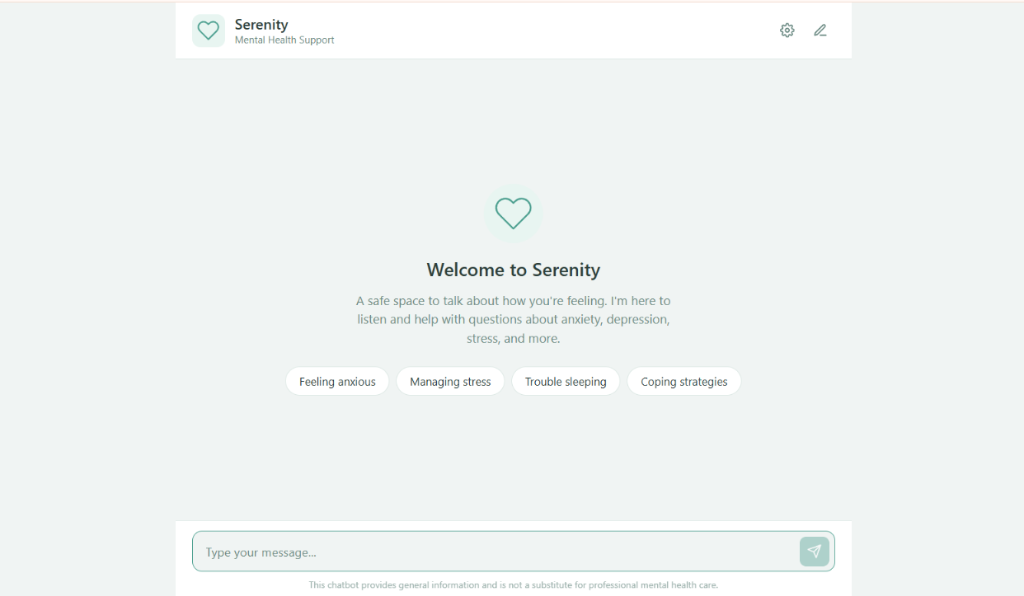
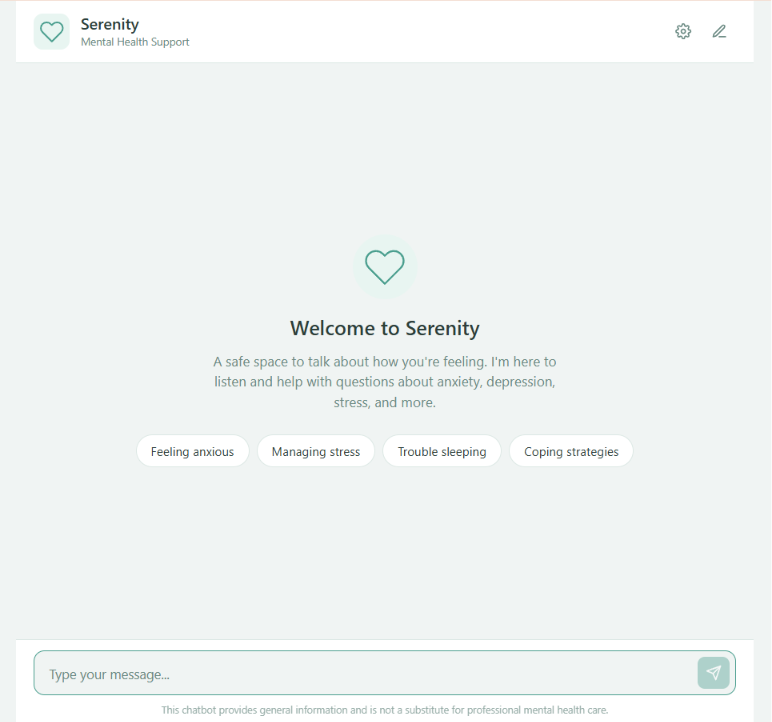
Resolve merge conflict and update URLs to single hyphen

diff --git a/README.md b/README.md
@@ -1,6 +1,6 @@
 # Serenity: Mental Health Support Chatbot (Frontend)
 
-[![Deploy to GitHub Pages](https://github.com/Hagar-Ghazi/Serenity--Mental-Health-Chatbot-Frontend/actions/workflows/deploy.yml/badge.svg)](https://github.com/Hagar-Ghazi/Serenity--Mental-Health-Chatbot-Frontend/actions/workflows/deploy.yml)
+[![Deploy to GitHub Pages](https://github.com/Hagar-Ghazi/Serenity-Mental-Health-Chatbot-Frontend/actions/workflows/deploy.yml/badge.svg)](https://github.com/Hagar-Ghazi/Serenity-Mental-Health-Chatbot-Frontend/actions/workflows/deploy.yml)
 [![Live Chat Link](https://img.shields.io/badge/Live-Chatbot--Interface-2e7d32?style=flat&logo=githubpages&logoColor=white)](https://hagar-ghazi.github.io/Serenity-Mental-Health-Chatbot-Frontend/)
 
 Serenity is a modern, clean and responsive web chat interface built using vanilla HTML5, CSS3 and JavaScript. It serves as an empathetic, safe and private space for users to seek support on anxiety, stress, depression and other mental health queries. The frontend connects to a containerized FastAPI backend running an intelligent NLP pipeline (classification + RAG + LLM).
@@ -110,8 +110,8 @@ Interaction flows are managed via asynchronous JavaScript `fetch` calls:
 
 1. Clone your frontend repository fork:
    ```bash
-   git clone https://github.com/Hagar-Ghazi/Serenity--Mental-Health-Chatbot-Frontend.git
-   cd Serenity--Mental-Health-Chatbot-Frontend
+   git clone https://github.com/Hagar-Ghazi/Serenity-Mental-Health-Chatbot-Frontend.git
+   cd Serenity-Mental-Health-Chatbot-Frontend
    ```
 2. Serve the directory using any local web server. For example using Python's built-in server:
    ```bash